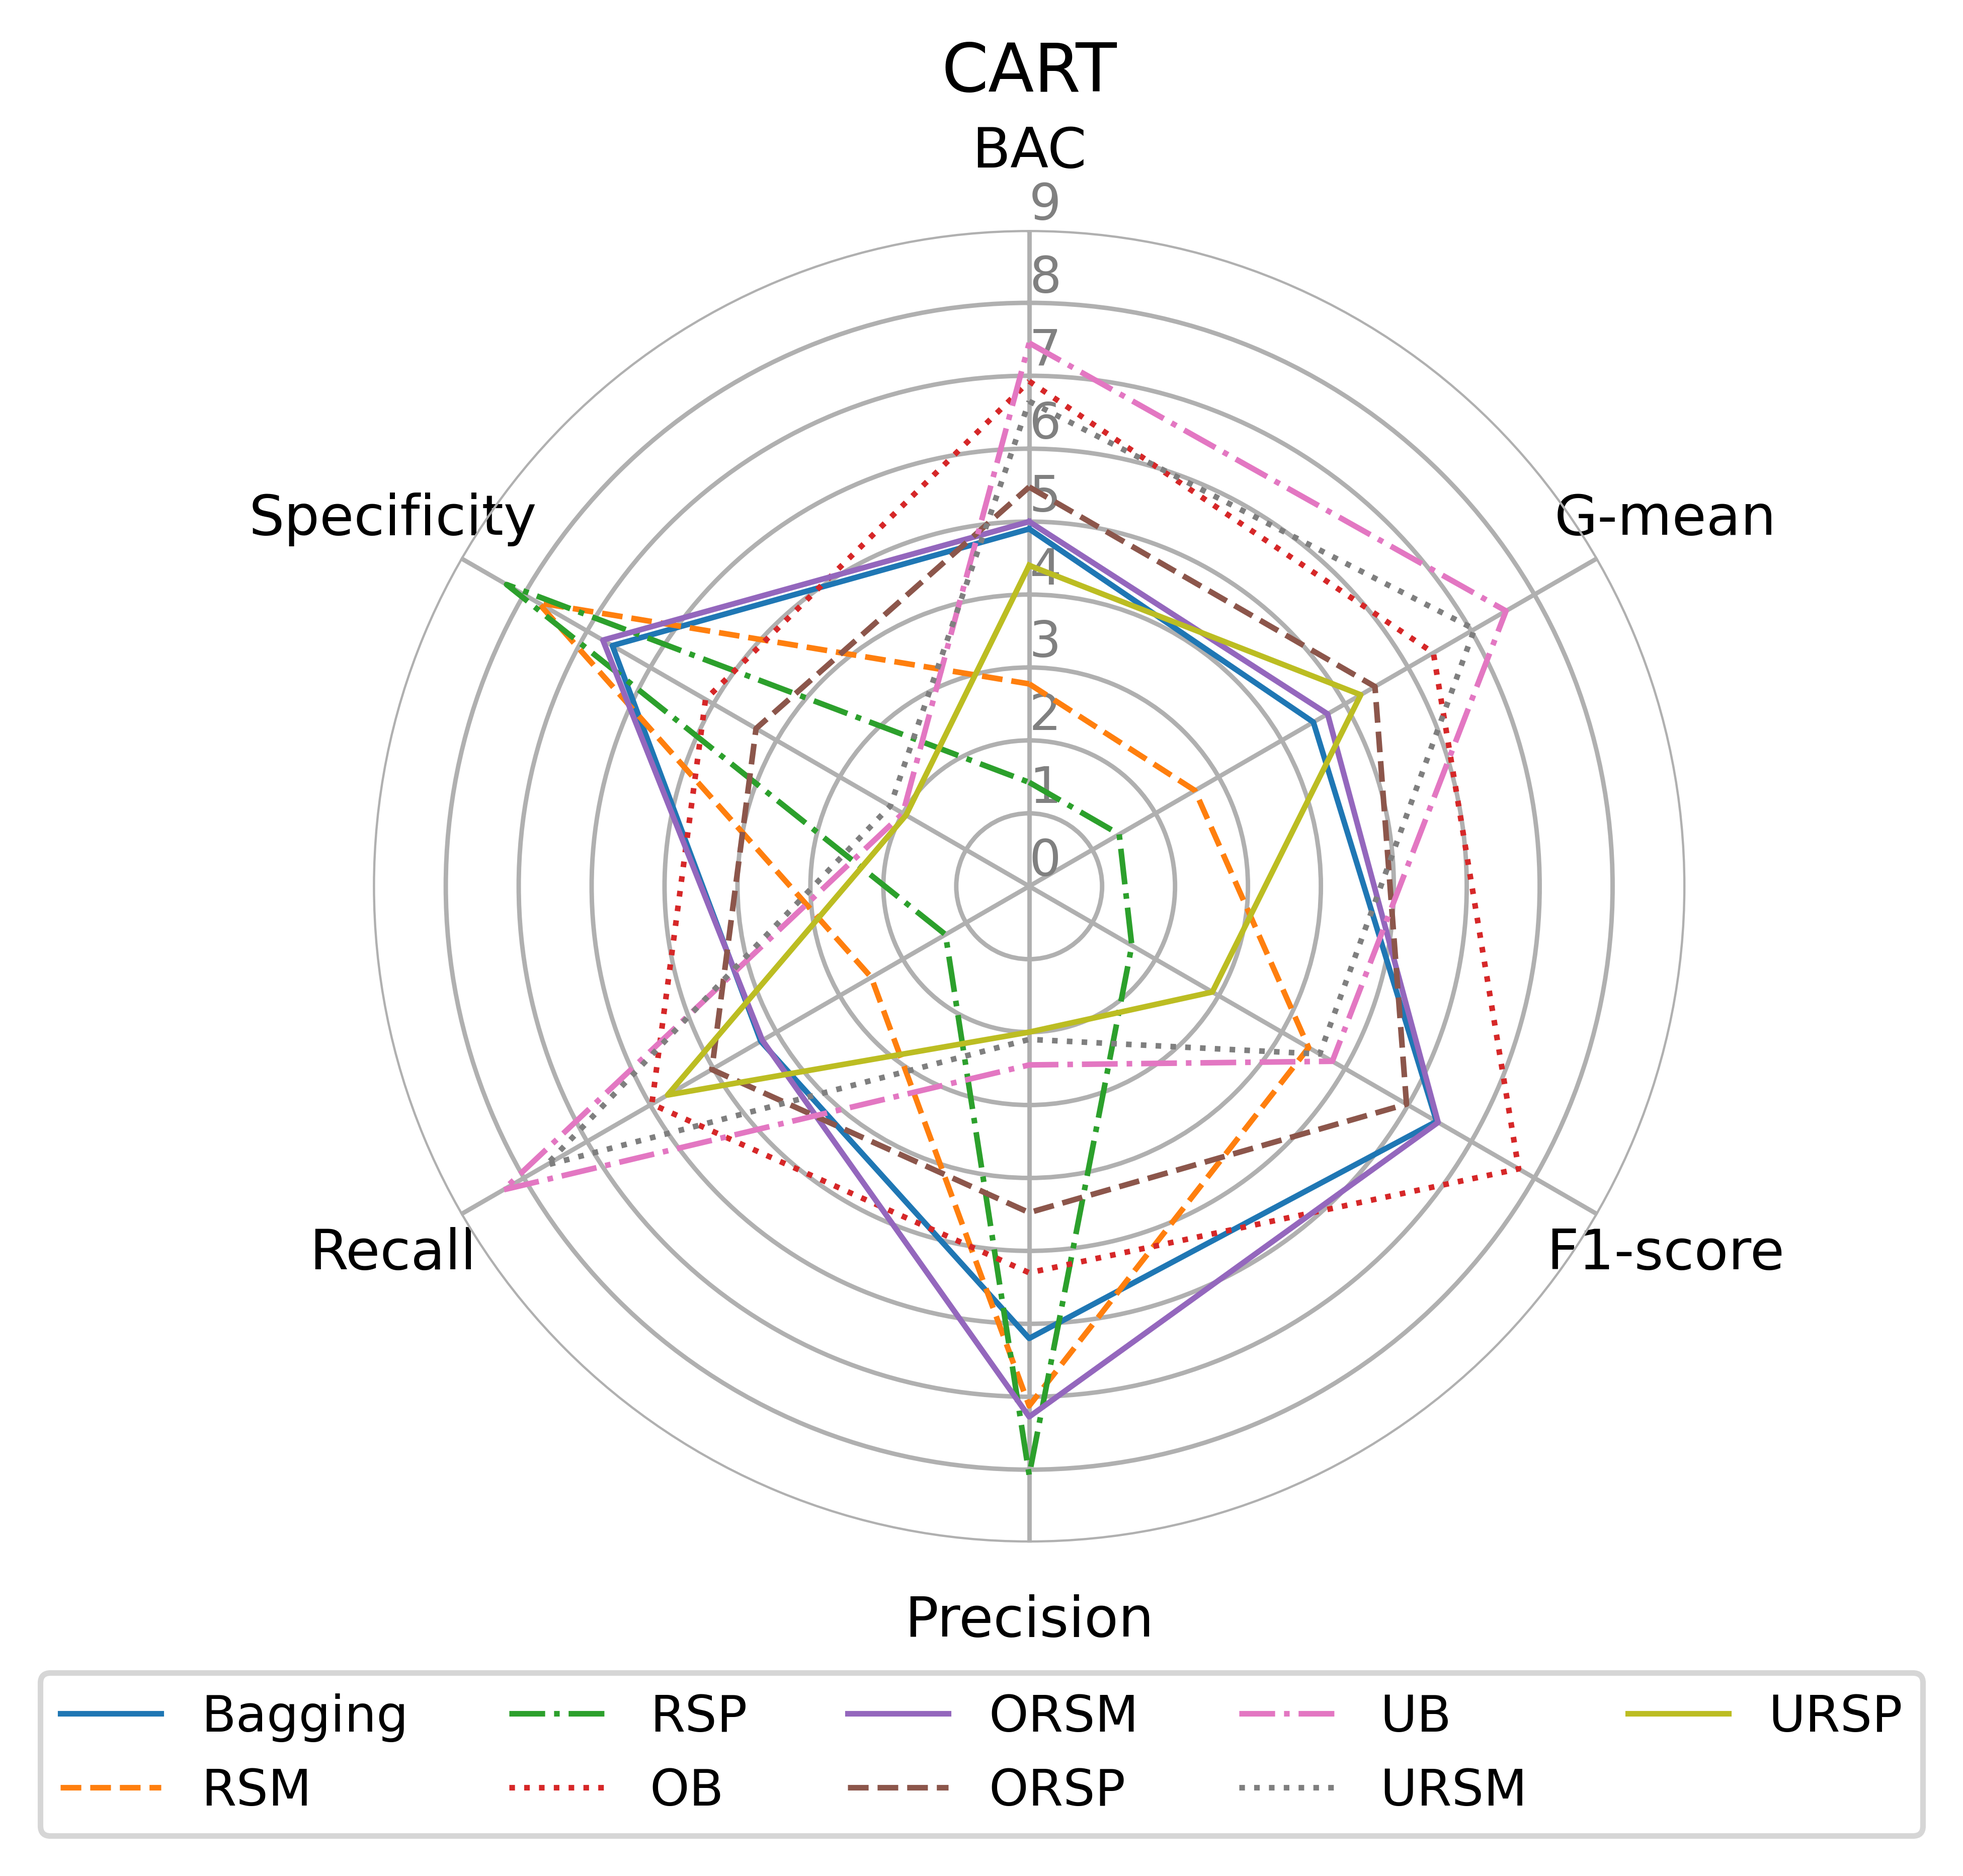
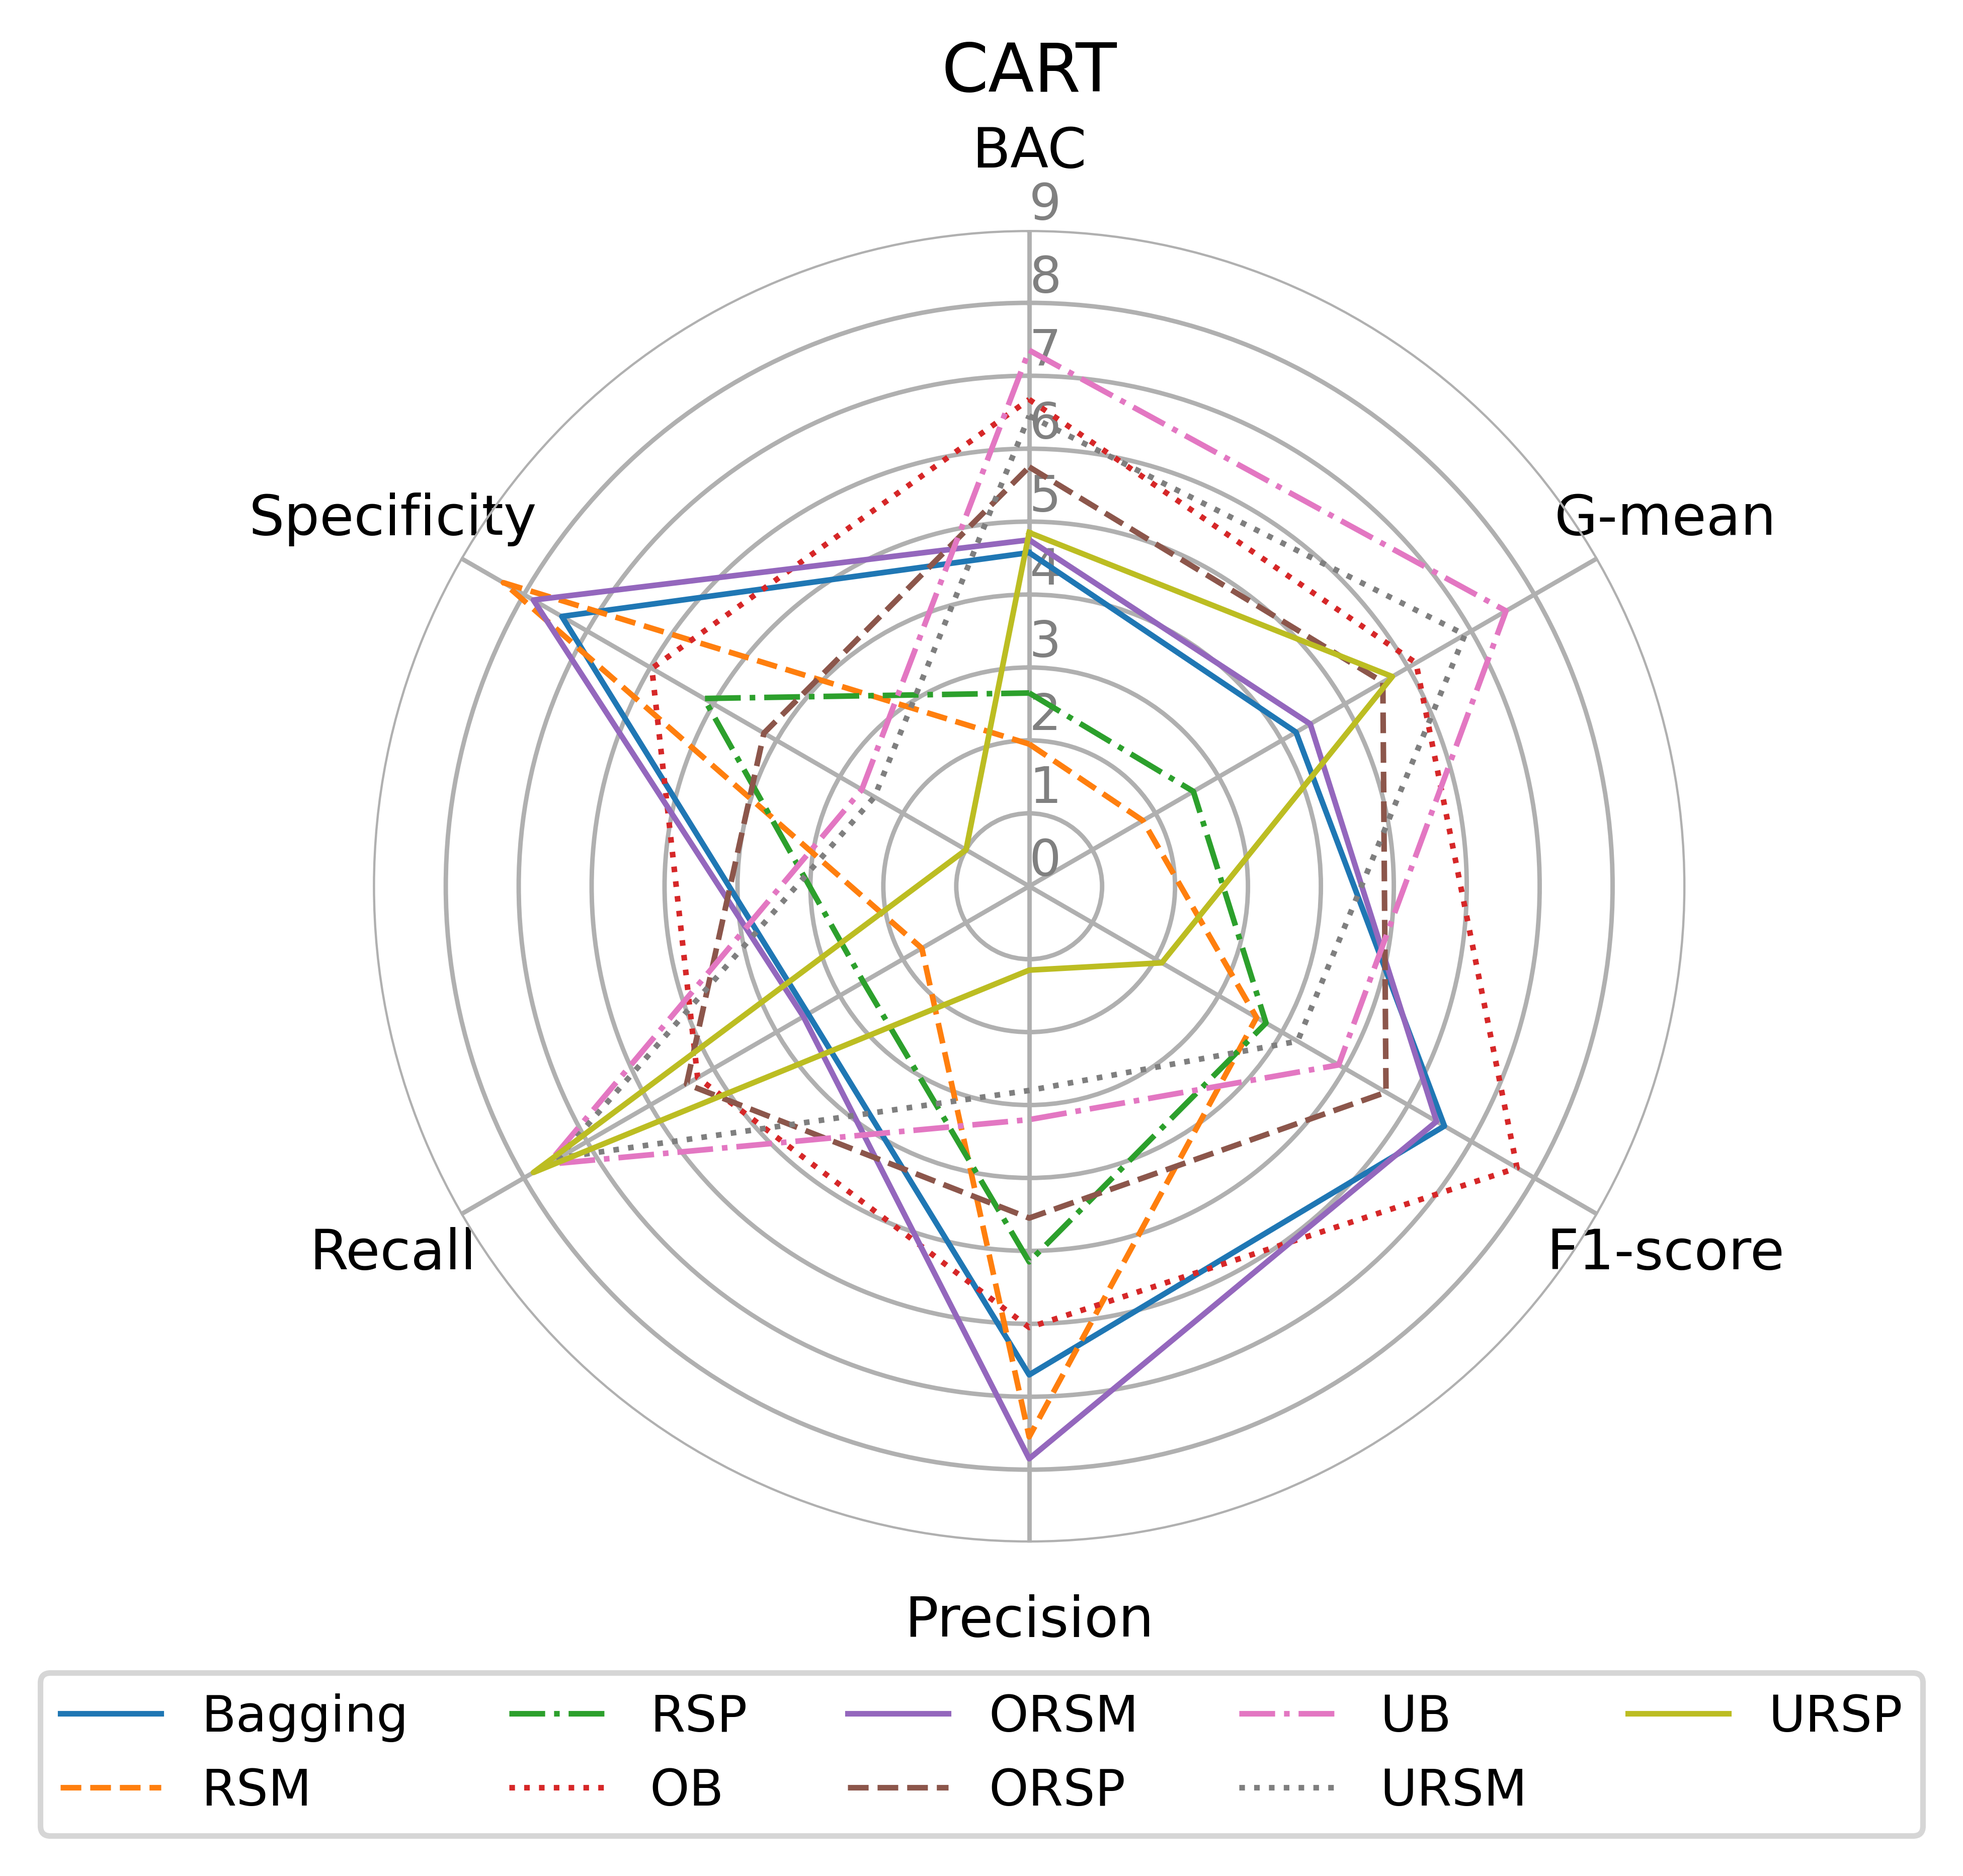
ensemble experiment

Changed region(s): [[0.2481, 0.1866, 0.7442, 0.7777], [0.2481, 0.6222, 0.2791, 0.6533]]

diff --git a/analysis/RadarGraph.py b/analysis/RadarGraph.py
@@ -5,7 +5,7 @@ import numpy as np
 clfs = ["Bagging", "RSM", "RSP", "OB", "ORSM", "ORSP", "UB", "URSM", "URSP"]
 metrics = ["BAC", "G-mean", "F1-score", "Precision", "Recall", "Specificity"]
 
-ranks = np.load("../results/ENSEMBLES/Ranks_SVC.npy")
+ranks = np.load("../results/ENSEMBLES/Ranks_GNB.npy")
 mean_ranks = np.mean(ranks, axis=1)
 
 N = mean_ranks.shape[0]
@@ -21,7 +21,7 @@ ax.spines["polar"].set_visible(False)
 plt.xticks(angles[:-1], metrics)
 plt.yticks([0, 1, 2, 3, 4, 5, 6, 7, 8, 9], ["0", "1", "2", "3", "4", "5", "6", "7", "8", "9"], color="grey", size=9)
 plt.ylim(0,9)
-plt.title("SVC", loc="center")
+plt.title("GNB", loc="center")
 
 # Line style
 ls = ["-", "--", "-.", ":", "-", "--", "-.", ":", "-", "--"]
@@ -37,6 +37,6 @@ plt.legend(bbox_to_anchor=(1.2, -0.08), ncol=5, fontsize=9)
 plt.tight_layout()
 
 # Save image
-plt.savefig("../images/SVCEnsmblesRadar", dpi=800, bbox_inches='tight')
+plt.savefig("../images/GNBEnsmblesRadar", dpi=800, bbox_inches='tight')
 
 
